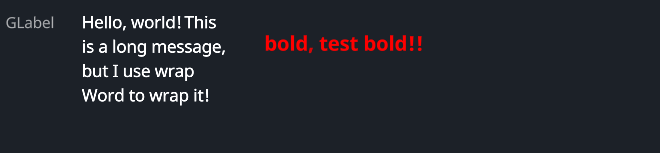
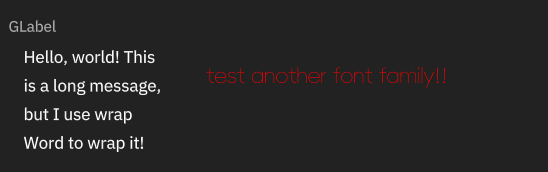
update 1019

diff --git a/src/gen/makepad/components/label.md b/src/gen/makepad/components/label.md
@@ -17,23 +17,28 @@ live_design! {
         height: 100.0,
         width: Fill,
         spacing: 10.0,
+        flow: Down,
         <Label>{
             text: "GLabel"
         }
-        <GLabel>{
-            text: "Hello, world! This is a long message, but I use wrap Word to wrap it!",
-            height: 48.0,
-            width: 120.0,
-            wrap: Word,
-            brightness: 1.5,
-            margin: {left: 12.0},
-        }
-        <GLabel>{
-            text: "bold, test bold!!",
-            font_size: 12.0,
-            padding: 16.0,
-            color: #FF0000,
-            font_family: dep("E:/Rust/try/makepad/Gen-UI/examples/gen_widget_example/resources/GoNotoKurrent-Bold.ttf"),
+        <GHLayout>{
+            height: Fit,
+            width: Fill,
+            spacing: 10.0,
+            <GLabel>{
+                text: "Hello, world! This is a long message, but I use wrap Word to wrap it!",
+                height: Fit,
+                width: 120.0,
+                wrap: Word,
+                margin: {left: 12.0},
+            }
+            <GLabel>{
+                text: "test another font family!!",
+                font_size: 12.0,
+                padding: 16.0,
+                color: #FF0000,
+                font_family: dep("crate://self/resources/AlimamaFangYuanTiVF-Thin.ttf"),
+            }
         }
     }
 }
@@ -45,8 +50,8 @@ live_design! {
 |--|--|--|--|
 |live|color|`Vec4`|The color of the label.|
 |live|font_size|`f64`|The size of the font used in the label.|
-|live|brightness|`f32`|The brightness level of the text.|
-|live|curve|`f32`|The curve factor of the text.|
+|live|brightness(unused)|`f32`|The brightness level of the text.|
+|live|curve(unused)|`f32`|The curve factor of the text.|
 |live|line_spacing|`f64`|The line spacing of the text.|
 |live|top_drop|`f64`|The top drop of the text.|
 |live|height_factor|`f64`|The height factor of the text.|
@@ -54,10 +59,13 @@ live_design! {
 |live|font_family|`LiveDependency`|The font family of the text.|
 |live|visible|`bool`|Whether the label is visible.|
 |deref|draw_text|`DrawText`|The `DrawText` component used for drawing the text.|
-|walk|walk|`Walk`|The `Walk` component for positioning.|
+|walk|height|`Size`|The height of the label|
+|walk|width|`Size`|The width of the label|
+|walk|abs_pos|`Option<DVec2>`|abs position of the component|
+|walk|margin|`Margin`|the margin around the component|
 |live|align|`Align`|The alignment of the text.|
-|live|padding|`Padding`|The padding around the text.|
-|live|text|`RcStringMut`|The content of the label.|
+|live|padding|`Padding`|The padding around the text. default `0.0`|
+|live|text|`ArcStringMut`|The content of the label.|
 
 ## Event
 

diff --git a/src/gen/tutorials/props/named.md b/src/gen/tutorials/props/named.md
@@ -1,0 +1,41 @@
+# Named
+
+> 说明:
+> 
+> 命名规则是属性命名的基础, 用于对属性命名进行规范化处理, 规则如下:
+> 1. 若无特殊情况属性命名必须依照基础命名原则
+> 2. 当出现基础命名不足够时采用基础组件命名法
+
+## 基础组件命名法
+
+基础组件命名法只有在出现基础命名不足够时进行使用, 它的原则很简单
+
+即: `${base_ele}_${base_prop_name}`
+
+例如:
+
+当某个组件中已经有代表hover状态时的`hover_color`时，还需要对线条处于hover状态时定义颜色属性
+
+那么这个新属性为: `stroke_hover_color`
+
+## base ele
+
+base ele指的是最基本的构成部分，他是所有其他组件的基础
+
+- stroke: 线条
+- text: 文本
+- 
+
+## Color
+
+### 基础命名说明 
+
+|命名|说明|
+|--|--|
+|background_color|背景色, 在任意具有区域化的组件中都应该含有|
+|color|文字颜色, 仅在带有文字的组件中含有|
+|stroke_color|线条颜色, 在含有线条的组件中使用, 例如图标|
+|hover_color|当hover时的颜色|
+|pressed_color|当pressed时的颜色|
+|border_color|边框颜色|
+|shadow_color|阴影颜色|

diff --git a/src/SUMMARY.md b/src/SUMMARY.md
@@ -13,6 +13,7 @@
     - [GenUI Ignore](./gen/tutorials/ignore.md)
     - [Props Manual](./gen/tutorials/props/introduction.md)
       - [Type](./gen/tutorials/props/type.md)
+      - [Named](./gen/tutorials/props/named.md)
       - [Font](./gen/tutorials/props/font.md)
       - [Text](./gen/tutorials/props/text.md)
       - [Background](./gen/tutorials/props/background.md)
